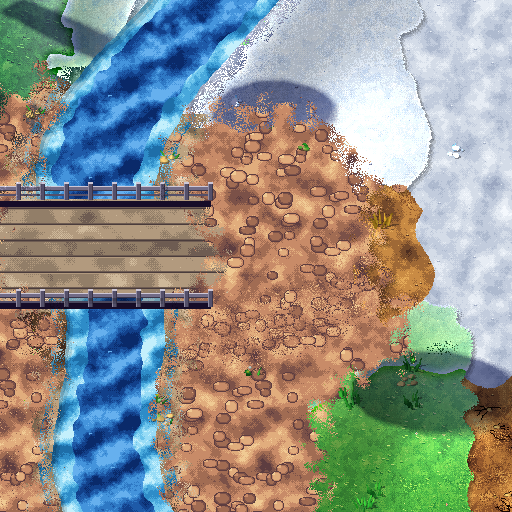
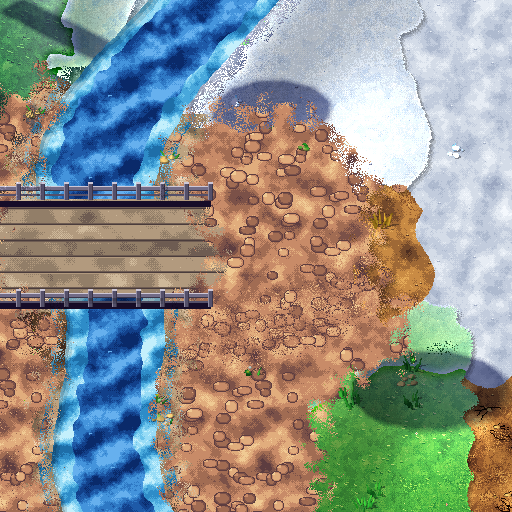
Sombra projetada em todos os assets: silhueta cisalhada (sprites), caixa (casas/muralhas), figura (personagens) e teste de cobertura
Claude-Session: https://claude.ai/code/session_01MRD4icKu6HtTnhwYzrjr8V

diff --git a/game/tools/terrain/ground_detail.py b/game/tools/terrain/ground_detail.py
@@ -335,7 +335,7 @@ def relief_shadows(img, ter, IDX, objects, w, h, bay, strength=.5):
     for (t, val) in ((1.0, 100), (.66, 170), (.33, 240)):          # do fim da sombra até o pé: cada passada só escurece
         for px, py, (shapes, hu) in casters:
             hp = hu * SHADOW_PX
-            vx, vy = hp * 1.05 * t, hp * .42 * t                     # luz de cima-esquerda: sombra cai para baixo-direita
+            vx, vy = hp * .55 * t, hp * .28 * t                     # luz de cima-esquerda: sombra cai para baixo-direita
             for shp in shapes:
                 if shp[0] == 'rect':
                     _, cx, cy, sx, sy = shp
